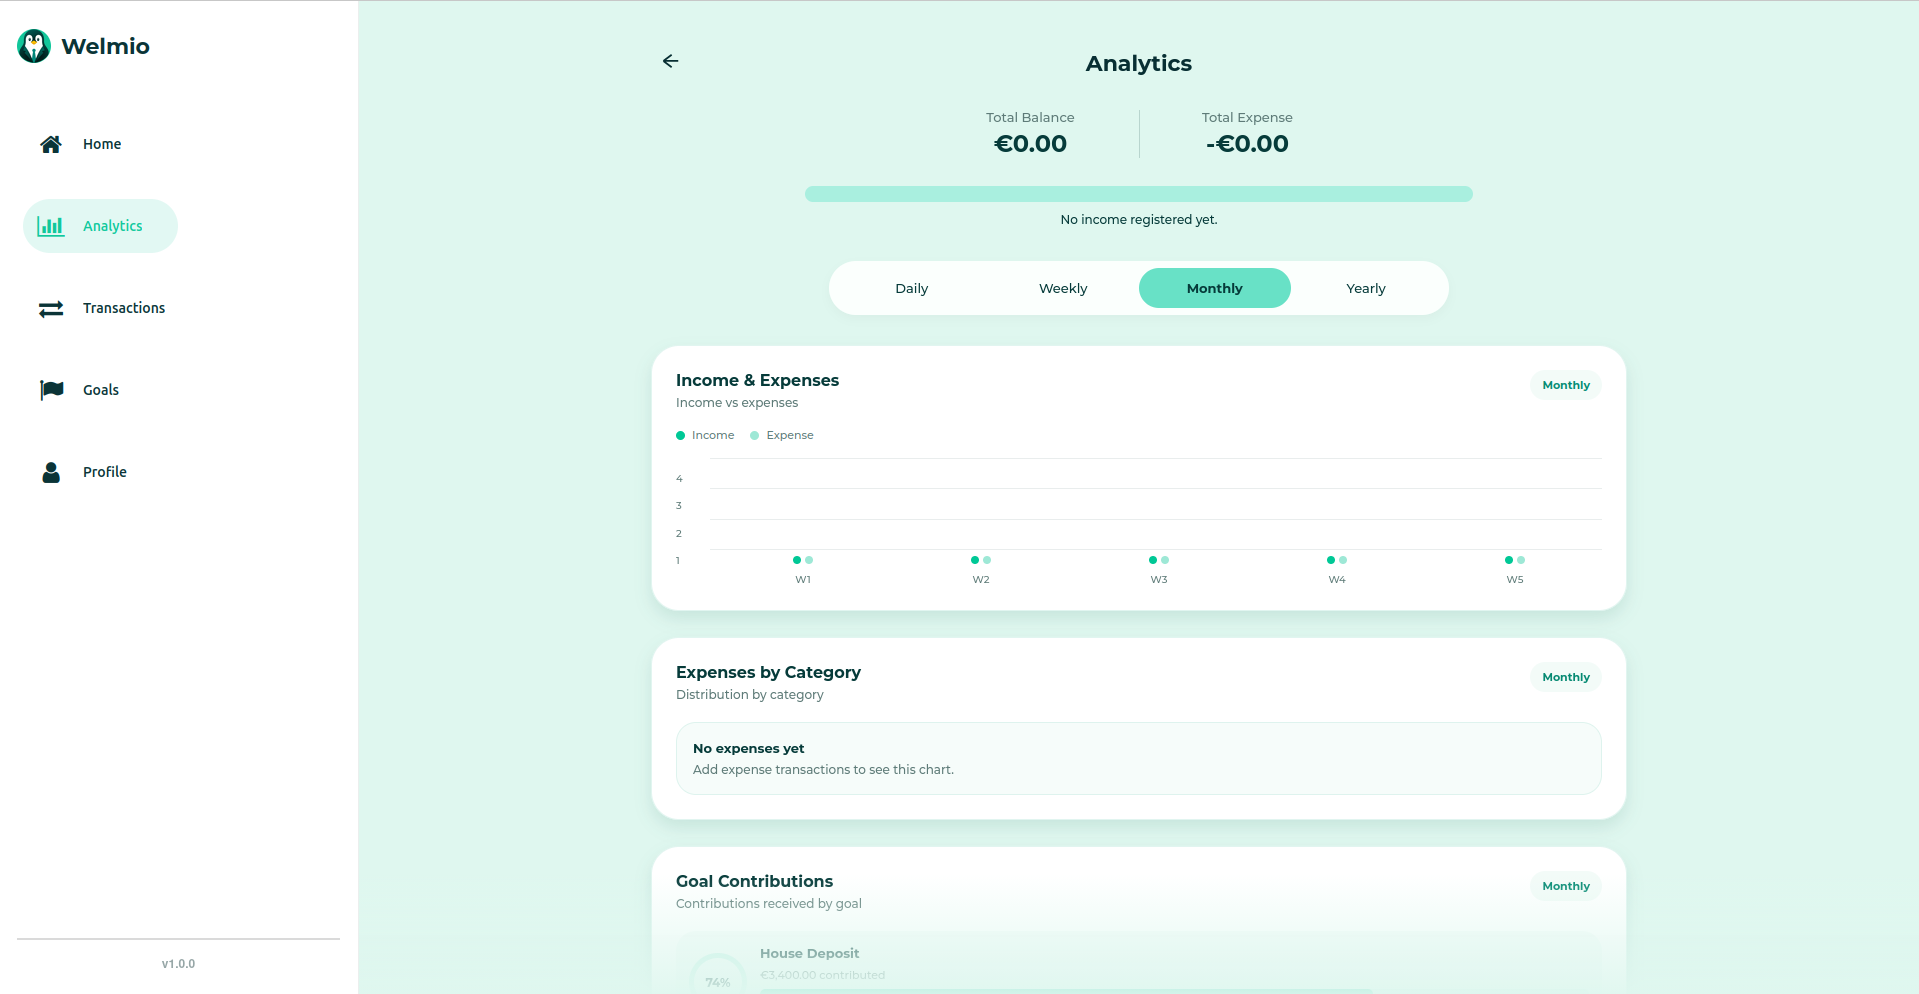
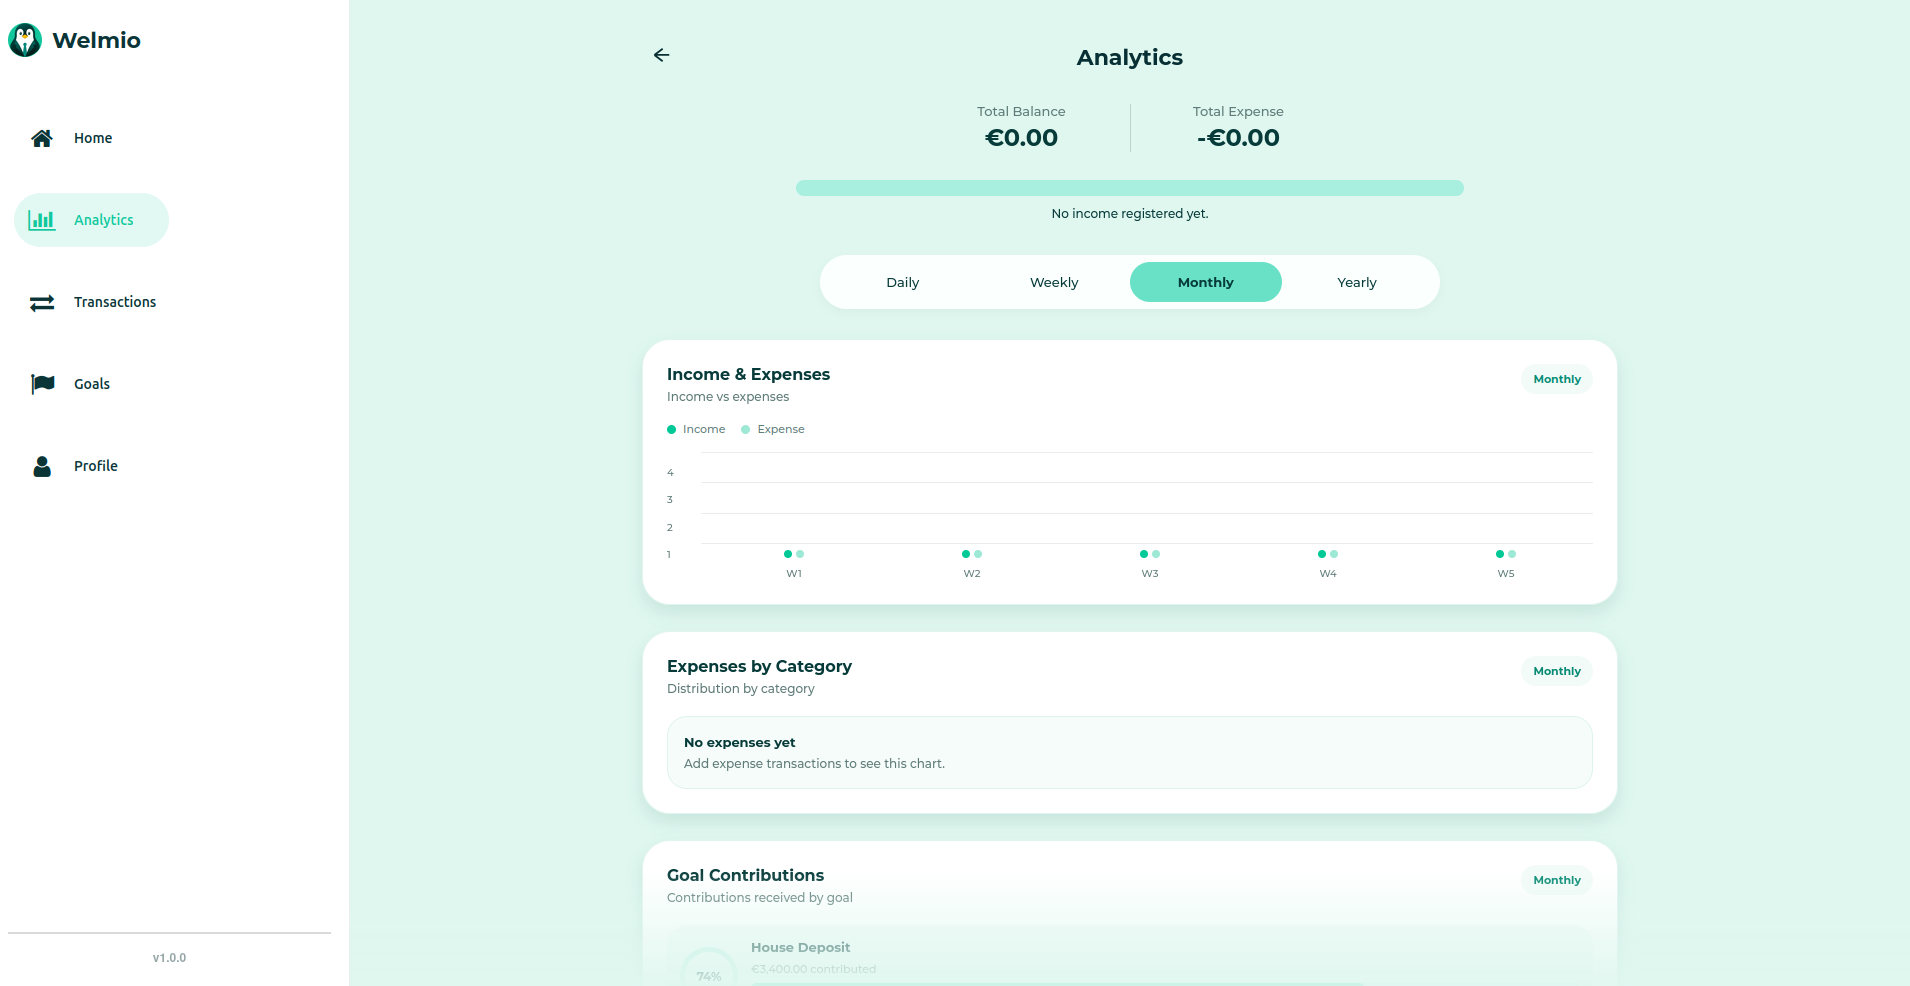
assets(screenshots): update desktop view app screenshots

diff --git a/apps/web/app/(public)/page.data.ts b/apps/web/app/(public)/page.data.ts
@@ -67,7 +67,7 @@ export const screenshots: Screenshot[] = [
   {
     title: "Login",
     text: "A soft emerald authentication screen designed for quick access.",
-    image: "/screenshots/welmio-login.png",
+    image: "/screenshots/mobile/welmio-login.png",
   },
   {
     title: "Overview",
@@ -87,7 +87,7 @@ export const screenshots: Screenshot[] = [
   {
     title: "Filter by Category",
     text: "Filter transactions by category.",
-    image: "/screenshots/welmio-categories.png",
+    image: "/screenshots/mobile/welmio-categories.png",
   },
   {
     title: "Goals",
@@ -107,6 +107,11 @@ export const screenshots: Screenshot[] = [
 ];
 
 export const screenshotsDesktop: Screenshot[] = [
+  {
+    title: "Login",
+    text: "A soft emerald authentication screen designed for quick access.",
+    image: "/screenshots/desktop/welmio-login.png",
+  },
   {
     title: "Overview",
     text: "Balance, expenses, goals and weekly chart in one clean dashboard.",
@@ -136,21 +141,6 @@ export const screenshotsDesktop: Screenshot[] = [
     title: "Edit Avatar",
     text: "Customize your profile picture with a simple avatar selection screen.",
     image: "/screenshots/desktop/welmio-edit-avatar.png",
-  },
-  {
-    title: "Login",
-    text: "A soft emerald authentication screen designed for quick access.",
-    image: "/screenshots/desktop/welmio-login.png",
-  },
-  {
-    title: "Signup",
-    text: "A complete account creation flow with the same visual language.",
-    image: "/screenshots/desktop/welmio-signup.png",
-  },
-  {
-    title: "Forgot Password",
-    text: "Recover access with a guided email verification flow for resetting your password.",
-    image: "/screenshots/desktop/welmio-forgot-password.png",
   },
 ];
 
